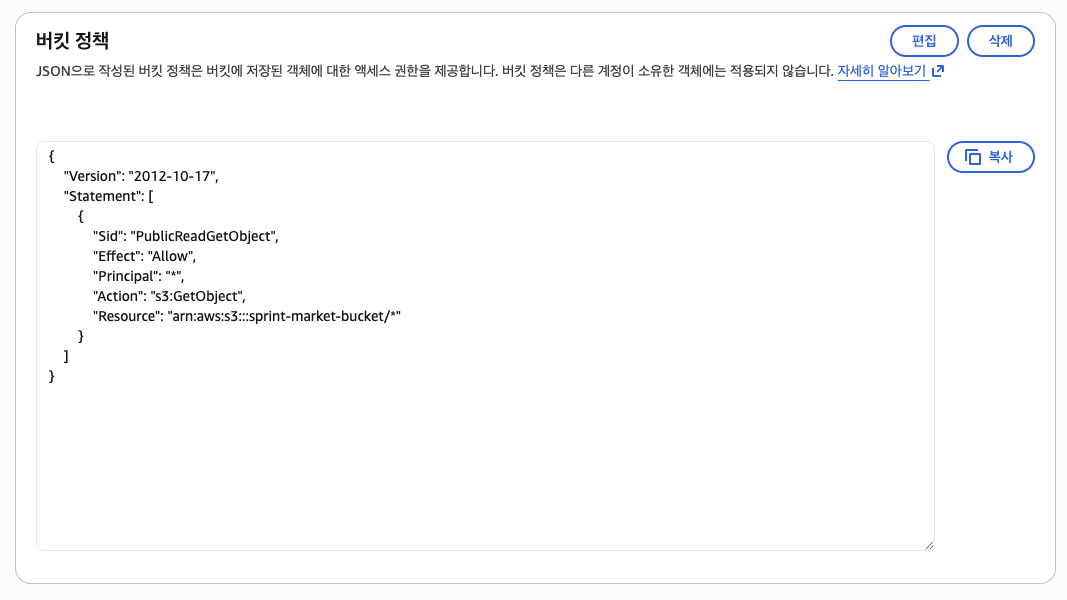
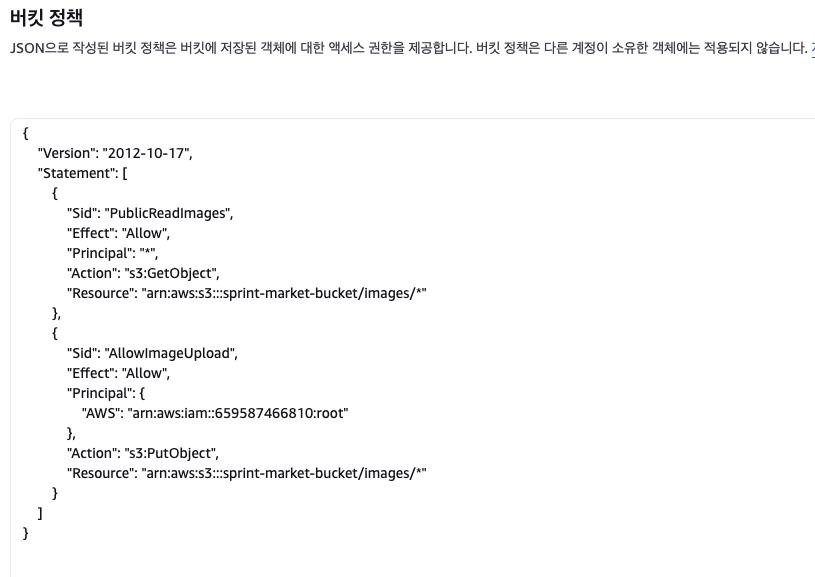
[fix] 멘토님 코드 리뷰 반영한 미션10 수정

diff --git a/src/common/lib/image.util.ts b/src/common/lib/image.util.ts
@@ -1,0 +1,50 @@
+import { AWS_S3_ENABLED } from "../config/config";
+import { uploadToS3, deleteFromS3, getS3Url } from "./s3.client";
+
+export async function uploadImage(
+  buffer: Buffer,
+  fileName: string,
+  mimeType: string,
+): Promise<string> {
+  if (!AWS_S3_ENABLED) {
+    throw new Error("Image upload is not configured");
+  }
+
+  return await uploadToS3(buffer, fileName, mimeType);
+}
+
+export async function deleteImage(fileName: string): Promise<void> {
+  if (!AWS_S3_ENABLED) {
+    console.log("S3 is not enabled, skipping image deletion");
+    return;
+  }
+
+  try {
+    await deleteFromS3(fileName);
+  } catch (error) {
+    console.error(`Failed to delete image: ${fileName}`, error);
+  }
+}
+
+export async function getImageUrl(fileName: string): Promise<string> {
+  if (!AWS_S3_ENABLED) {
+    throw new Error("Image service is not configured");
+  }
+
+  return await getS3Url(fileName);
+}
+
+export async function deleteImages(fileNames: string[]): Promise<void> {
+  if (!AWS_S3_ENABLED) {
+    console.log("S3 is not enabled, skipping image deletion");
+    return;
+  }
+
+  const deletePromises = fileNames.map((fileName) =>
+    deleteImage(fileName).catch((error) => {
+      console.error(`Failed to delete ${fileName}:`, error);
+    }),
+  );
+
+  await Promise.all(deletePromises);
+}

diff --git a/src/inbound/controllers/image.controller.ts b/src/inbound/controllers/image.controller.ts
@@ -2,6 +2,7 @@ import { Request, Response } from "express";
 import multer from "multer";
 import path from "path";
 import { v4 as uuidv4 } from "uuid";
+import { AWS_S3_ENABLED } from "../../common/config/config";
 import {
   PUBLIC_PATH,
   STATIC_PATH,
@@ -11,21 +12,24 @@ import {
   BusinessException,
   BusinessExceptionType,
 } from "../../common/errors/business.exception";
+import { uploadToS3 } from "../../common/lib/s3.client";
 
 const ALLOWED_MIME_TYPES = ["image/png", "image/jpeg", "image/jpg"];
 const FILE_SIZE_LIMIT = 5 * 1024 * 1024;
 
 export const upload = multer({
-  storage: multer.diskStorage({
-    destination(req, file, cb) {
-      cb(null, PUBLIC_PATH);
-    },
-    filename(req, file, cb) {
-      const ext = path.extname(file.originalname);
-      const filename = `${uuidv4()}${ext}`;
-      cb(null, filename);
-    },
-  }),
+  storage: AWS_S3_ENABLED
+    ? multer.memoryStorage()
+    : multer.diskStorage({
+        destination(req, file, cb) {
+          cb(null, PUBLIC_PATH);
+        },
+        filename(req, file, cb) {
+          const ext = path.extname(file.originalname);
+          const filename = `${uuidv4()}${ext}`;
+          cb(null, filename);
+        },
+      }),
 
   limits: {
     fileSize: FILE_SIZE_LIMIT,
@@ -57,7 +61,22 @@ export async function uploadImage(
     return;
   }
 
-  const filePath = path.join(STATIC_PATH, req.file.filename);
-  const url = `${IMAGE_BASE_URL}${filePath}`;
-  res.send({ url });
+  try {
+    let url: string;
+
+    if (AWS_S3_ENABLED) {
+      const fileName = `${uuidv4()}${path.extname(req.file.originalname)}`;
+      url = await uploadToS3(req.file.buffer, fileName, req.file.mimetype);
+    } else {
+      const filePath = path.join(STATIC_PATH, req.file.filename);
+      url = `${IMAGE_BASE_URL}${filePath}`;
+    }
+
+    res.send({ url });
+  } catch (error) {
+    throw new BusinessException({
+      type: BusinessExceptionType.PARSE_BODY_ERROR,
+      message: "Failed to upload image",
+    });
+  }
 }

diff --git a/src/inbound/controllers/articles.controller.ts b/src/inbound/controllers/articles.controller.ts
@@ -2,6 +2,7 @@ import { Request, Response } from "express";
 import { create } from "superstruct";
 import { AuthenticatedHandler } from "../../common/types/common";
 import { prismaClient } from "../../common/lib/prisma.client";
+import { deleteImage } from "../../common/lib/image.util";
 import { CreateArticleService } from "../../domain/services/create.article.service";
 import { UpdateArticleService } from "../../domain/services/update.article.service";
 import { DeleteArticleService } from "../../domain/services/delete.article.service";
@@ -89,6 +90,17 @@ export const updateArticle: AuthenticatedHandler = async (
 
   const { id } = create(req.params, IdParamsStruct);
   const updateData = create(req.body, UpdateArticleBodyStruct);
+  const existingArticle = await prismaClient.article.findUnique({
+    where: { id },
+  });
+
+  if (
+    updateData.image !== undefined &&
+    existingArticle?.image &&
+    existingArticle.image !== updateData.image
+  ) {
+    await deleteImage(existingArticle.image);
+  }
 
   const updatedArticle = await updateArticleService.update({
     id,
@@ -111,6 +123,13 @@ export const deleteArticle: AuthenticatedHandler = async (
   }
 
   const { id } = create(req.params, IdParamsStruct);
+  const article = await prismaClient.article.findUnique({
+    where: { id },
+  });
+
+  if (article?.image) {
+    await deleteImage(article.image);
+  }
 
   await deleteArticleService.delete({ id, userId });
 

diff --git a/src/inbound/controllers/products.controller.ts b/src/inbound/controllers/products.controller.ts
@@ -1,6 +1,7 @@
 import { Request, Response } from "express";
 import { create } from "superstruct";
 import { prismaClient } from "../../common/lib/prisma.client";
+import { deleteImages } from "../../common/lib/image.util";
 import { IdParamsStruct } from "../../common/validation/common.structs";
 import {
   CreateProductBodyStruct,
@@ -82,6 +83,16 @@ export const updateProduct: AuthenticatedHandler = async (
       type: BusinessExceptionType.UNAUTORIZED_REQUEST,
     });
   }
+
+  if (images && existingProduct.images) {
+    const removedImages = existingProduct.images.filter(
+      (img) => !images.includes(img),
+    );
+    if (removedImages.length > 0) {
+      await deleteImages(removedImages);
+    }
+  }
+
   const updatedProduct = await prismaClient.product.update({
     where: { id },
     data: { name, description, price, tags, images },
@@ -127,6 +138,10 @@ export async function deleteProduct(
       type: BusinessExceptionType.UNAUTORIZED_REQUEST,
     });
   }
+  if (existingProduct.images && existingProduct.images.length > 0) {
+    await deleteImages(existingProduct.images);
+  }
+
   await prismaClient.product.delete({ where: { id } });
   res.send({ id });
 }

diff --git a/src/inbound/controllers/userInfo.controller.ts b/src/inbound/controllers/userInfo.controller.ts
@@ -1,5 +1,6 @@
 import { Request, Response } from "express";
 import { prismaClient } from "../../common/lib/prisma.client";
+import { deleteImage } from "../../common/lib/image.util";
 import bcrypt from "bcrypt";
 import { AuthenticatedHandler } from "../../common/types/common";
 import {
@@ -45,6 +46,14 @@ export async function updateMyInfo(req: Request, res: Response): Promise<void> {
     return;
   }
   const { nickname, image } = req.body;
+  const existingUser = await prismaClient.user.findUnique({
+    where: { id: userId },
+  });
+
+  if (image && existingUser?.image && existingUser.image !== image) {
+    await deleteImage(existingUser.image);
+  }
+
   const updatedUser = await prismaClient.user.update({
     where: { id: userId },
     data: {

diff --git a/src/main.ts b/src/main.ts
@@ -4,6 +4,7 @@ import path from "path";
 import http from "http";
 import { PORT, PUBLIC_PATH, STATIC_PATH } from "./common/config/constants";
 import { initializeSocket } from "./common/lib/socket.manager";
+import { initS3Client } from "./common/lib/s3.client";
 import articlesRouterCA from "./inbound/routers/articles.router";
 import userRouterCA from "./inbound/routers/user.router";
 import imagesRouter from "./inbound/routers/images.router";
@@ -13,6 +14,8 @@ import {
 } from "./inbound/controllers/error.controller";
 
 const app = express();
+
+initS3Client();
 
 app.use(cors());
 app.use(express.json());

diff --git a/src/common/lib/s3.client.ts b/src/common/lib/s3.client.ts
@@ -122,5 +122,3 @@ export async function getS3Url(fileName: string): Promise<string> {
     throw new Error("Failed to get signed URL from S3");
   }
 }
-
-//s3 aws 수정